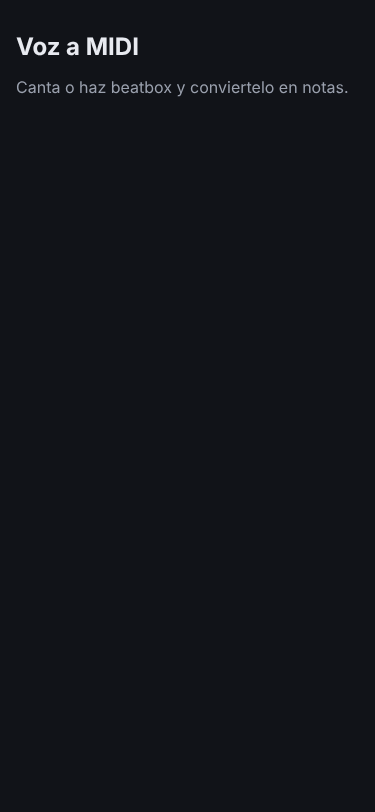
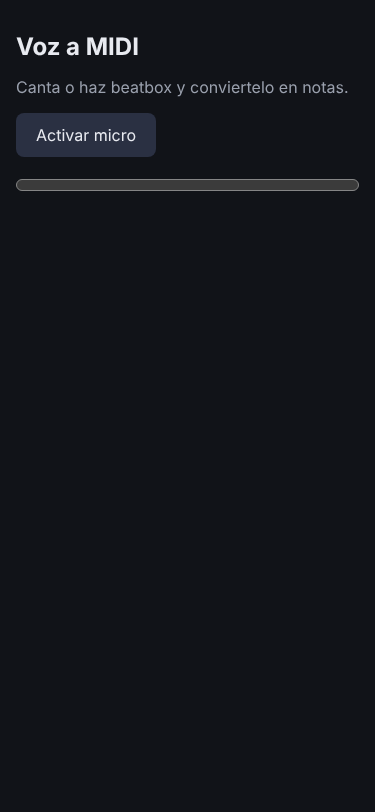
feat: pipeline de audio con AudioWorklet, buffer circular y medidor de nivel
Claude-Session: https://claude.ai/code/session_015rvETS9hLcjRjsWEGC3ZxA

Changed region(s): [[0.0293, 0.1232, 0.968, 0.2463]]

diff --git a/test/ring-buffer.test.ts b/test/ring-buffer.test.ts
@@ -1,0 +1,55 @@
+import { describe, expect, it } from 'vitest';
+import { RingBuffer } from '../src/audio/ring-buffer';
+import { measureLevel, toDb } from '../src/audio/level';
+
+describe('RingBuffer', () => {
+  it('devuelve las ultimas muestras en orden', () => {
+    const rb = new RingBuffer(4);
+    rb.write(Float32Array.from([1, 2, 3]));
+    const out = new Float32Array(2);
+    expect(rb.readLatest(out)).toBe(2);
+    expect(Array.from(out)).toEqual([2, 3]);
+  });
+
+  it('da la vuelta al llegar al final', () => {
+    const rb = new RingBuffer(4);
+    rb.write(Float32Array.from([1, 2, 3]));
+    rb.write(Float32Array.from([4, 5, 6]));
+    const out = new Float32Array(4);
+    expect(rb.readLatest(out)).toBe(4);
+    expect(Array.from(out)).toEqual([3, 4, 5, 6]);
+    expect(rb.length).toBe(4);
+  });
+
+  it('con escritura mayor que la capacidad conserva el final', () => {
+    const rb = new RingBuffer(3);
+    rb.write(Float32Array.from([1, 2, 3, 4, 5]));
+    const out = new Float32Array(3);
+    rb.readLatest(out);
+    expect(Array.from(out)).toEqual([3, 4, 5]);
+  });
+
+  it('lee solo lo disponible', () => {
+    const rb = new RingBuffer(8);
+    rb.write(Float32Array.from([7]));
+    expect(rb.readLatest(new Float32Array(5))).toBe(1);
+  });
+
+  it('rechaza capacidad invalida', () => {
+    expect(() => new RingBuffer(0)).toThrow(RangeError);
+  });
+});
+
+describe('nivel', () => {
+  it('un seno de amplitud 0.5 tiene rms ~0.354 y pico 0.5', () => {
+    const s = new Float32Array(4800).map((_, i) => 0.5 * Math.sin((2 * Math.PI * 100 * i) / 48000));
+    const { rms, peak } = measureLevel(s);
+    expect(rms).toBeCloseTo(0.5 / Math.SQRT2, 3);
+    expect(peak).toBeCloseTo(0.5, 3);
+  });
+
+  it('dB: 1 es 0 dBFS y el silencio queda en -100', () => {
+    expect(toDb(1)).toBeCloseTo(0);
+    expect(toDb(0)).toBe(-100);
+  });
+});

diff --git a/src/main.ts b/src/main.ts
@@ -1,4 +1,6 @@
 import './style.css';
+import { toDb } from './audio/level';
+import type { Engine } from './audio/engine';
 
 const app = document.querySelector<HTMLDivElement>('#app');
 if (app) {
@@ -6,8 +8,41 @@ if (app) {
     <main>
       <h1>Voz a MIDI</h1>
       <p>Canta o haz beatbox y conviertelo en notas.</p>
+      <button id="mic" type="button">Activar micro</button>
+      <meter id="nivel" min="-100" max="0" value="-100" aria-label="Nivel de entrada"></meter>
+      <p id="estado" role="status"></p>
     </main>
   `;
+  const button = app.querySelector<HTMLButtonElement>('#mic');
+  const meter = app.querySelector<HTMLMeterElement>('#nivel');
+  const status = app.querySelector<HTMLParagraphElement>('#estado');
+  let engine: Engine | null = null;
+
+  button?.addEventListener('click', async () => {
+    if (!button || !meter || !status) return;
+    button.disabled = true;
+    try {
+      if (engine) {
+        await engine.stop();
+        engine = null;
+        meter.value = -100;
+        button.textContent = 'Activar micro';
+        status.textContent = '';
+      } else {
+        const { startEngine } = await import('./audio/engine');
+        engine = await startEngine(({ rms }) => {
+          meter.value = toDb(rms);
+          status.dataset['activo'] = '1';
+        });
+        button.textContent = 'Detener';
+        status.textContent = 'Micro activo';
+      }
+    } catch {
+      status.textContent = 'No se pudo abrir el micro';
+    } finally {
+      button.disabled = false;
+    }
+  });
 }
 
 if (import.meta.env.PROD) {

diff --git a/src/audio/ring-buffer.ts b/src/audio/ring-buffer.ts
@@ -1,0 +1,35 @@
+/** Buffer circular de muestras mono. Sin asignaciones tras la construccion (apto para el worklet). */
+export class RingBuffer {
+  private readonly data: Float32Array;
+  private writePos = 0;
+  private filled = 0;
+
+  constructor(readonly capacity: number) {
+    if (!Number.isInteger(capacity) || capacity <= 0) throw new RangeError('capacity debe ser entero positivo');
+    this.data = new Float32Array(capacity);
+  }
+
+  /** Muestras validas almacenadas (como maximo `capacity`). */
+  get length(): number {
+    return this.filled;
+  }
+
+  write(samples: Float32Array): void {
+    const src = samples.length > this.capacity ? samples.subarray(samples.length - this.capacity) : samples;
+    const first = Math.min(src.length, this.capacity - this.writePos);
+    this.data.set(src.subarray(0, first), this.writePos);
+    this.data.set(src.subarray(first), 0);
+    this.writePos = (this.writePos + src.length) % this.capacity;
+    this.filled = Math.min(this.capacity, this.filled + src.length);
+  }
+
+  /** Copia las ultimas `out.length` muestras (la mas reciente al final). Devuelve cuantas copio. */
+  readLatest(out: Float32Array): number {
+    const n = Math.min(out.length, this.filled);
+    const start = (this.writePos - n + this.capacity) % this.capacity;
+    const first = Math.min(n, this.capacity - start);
+    out.set(this.data.subarray(start, start + first), 0);
+    out.set(this.data.subarray(0, n - first), first);
+    return n;
+  }
+}

diff --git a/src/audio/engine.ts b/src/audio/engine.ts
@@ -1,0 +1,32 @@
+import workletUrl from './capture-processor.ts?worker&url';
+import type { Level } from './level';
+
+export interface Engine {
+  stop(): Promise<void>;
+}
+
+/** Abre el micro y conecta el worklet de captura. Debe llamarse desde un gesto del usuario. */
+export async function startEngine(onLevel: (level: Level) => void): Promise<Engine> {
+  const stream = await navigator.mediaDevices.getUserMedia({ audio: true });
+  const ctx = new AudioContext({ latencyHint: 'interactive' });
+  try {
+    await ctx.resume();
+    await ctx.audioWorklet.addModule(workletUrl);
+    const source = ctx.createMediaStreamSource(stream);
+    const node = new AudioWorkletNode(ctx, 'capture-processor', { numberOfOutputs: 0 });
+    node.port.onmessage = (e: MessageEvent<Level>) => onLevel(e.data);
+    source.connect(node);
+    return {
+      async stop() {
+        node.port.onmessage = null;
+        source.disconnect();
+        stream.getTracks().forEach((t) => t.stop());
+        await ctx.close();
+      },
+    };
+  } catch (err) {
+    stream.getTracks().forEach((t) => t.stop());
+    await ctx.close();
+    throw err;
+  }
+}

diff --git a/src/audio/capture-processor.ts b/src/audio/capture-processor.ts
@@ -1,0 +1,34 @@
+import { RingBuffer } from './ring-buffer';
+import { measureLevel } from './level';
+
+declare class AudioWorkletProcessor {
+  readonly port: MessagePort;
+  constructor();
+}
+declare function registerProcessor(name: string, ctor: new () => AudioWorkletProcessor): void;
+declare const sampleRate: number;
+
+const WINDOW = 1024;
+const REPORT_HZ = 30;
+
+class CaptureProcessor extends AudioWorkletProcessor {
+  private readonly ring = new RingBuffer(sampleRate * 2);
+  private readonly window = new Float32Array(WINDOW);
+  private sinceReport = 0;
+
+  process(inputs: Float32Array[][]): boolean {
+    const channel = inputs[0]?.[0];
+    if (!channel) return true;
+    this.ring.write(channel);
+    this.sinceReport += channel.length;
+    if (this.sinceReport >= sampleRate / REPORT_HZ) {
+      this.sinceReport = 0;
+      const n = this.ring.readLatest(this.window);
+      const { rms, peak } = measureLevel(this.window.subarray(WINDOW - n));
+      this.port.postMessage({ rms, peak });
+    }
+    return true;
+  }
+}
+
+registerProcessor('capture-processor', CaptureProcessor);

diff --git a/e2e/audio.spec.ts b/e2e/audio.spec.ts
@@ -1,0 +1,20 @@
+import { expect, test } from '@playwright/test';
+
+test.use({
+  permissions: ['microphone'],
+  launchOptions: {
+    ...(process.env['CHROMIUM_PATH'] ? { executablePath: process.env['CHROMIUM_PATH'] } : {}),
+    args: ['--use-fake-ui-for-media-stream', '--use-fake-device-for-media-stream', '--autoplay-policy=no-user-gesture-required'],
+  },
+});
+
+test('activar el micro arranca el worklet y mueve el medidor', async ({ page }) => {
+  await page.goto('/');
+  await page.getByRole('button', { name: 'Activar micro' }).click();
+  await expect(page.getByRole('status')).toHaveText('Micro activo');
+  await expect(page.locator('#estado[data-activo="1"]')).toBeAttached();
+  await expect.poll(async () => page.locator('#nivel').evaluate((m: HTMLMeterElement) => m.value)).toBeGreaterThan(-100);
+  const overflow = await page.evaluate(() => document.documentElement.scrollWidth > window.innerWidth);
+  expect(overflow).toBe(false);
+  await page.screenshot({ path: 'artifacts/audio.png', fullPage: true });
+});

diff --git a/src/audio/level.ts b/src/audio/level.ts
@@ -1,0 +1,21 @@
+export interface Level {
+  rms: number;
+  peak: number;
+}
+
+export function measureLevel(samples: Float32Array): Level {
+  let sum = 0;
+  let peak = 0;
+  for (let i = 0; i < samples.length; i++) {
+    const v = samples[i] ?? 0;
+    sum += v * v;
+    const a = Math.abs(v);
+    if (a > peak) peak = a;
+  }
+  return { rms: samples.length ? Math.sqrt(sum / samples.length) : 0, peak };
+}
+
+/** Nivel en dBFS, con suelo en -100 para silencio. */
+export function toDb(linear: number): number {
+  return linear > 1e-5 ? 20 * Math.log10(linear) : -100;
+}

diff --git a/src/style.css b/src/style.css
@@ -30,3 +30,21 @@ h1 {
 p {
   color: var(--muted);
 }
+
+button {
+  min-height: 44px;
+  min-width: 44px;
+  padding: 0 20px;
+  font: inherit;
+  color: var(--fg);
+  background: #2a3042;
+  border: 0;
+  border-radius: 8px;
+}
+
+meter {
+  display: block;
+  width: 100%;
+  height: 24px;
+  margin-top: 16px;
+}

diff --git a/docs/TASKS.md b/docs/TASKS.md
@@ -6,7 +6,7 @@ Regla: el agente coge la primera `[ ]` de la fase activa mas baja. Puede anadir 
 ## Fase 0. Base
 - [x] Scaffold Vite + TS estricto, ESLint, Vitest, Playwright (viewport 375x812), scripts del CLAUDE.md
 - [x] PWA: manifest, service worker, iconos propios
-- [ ] Pipeline de audio: getUserMedia + AudioWorklet con buffer circular, medidor de nivel en UI
+- [x] Pipeline de audio: getUserMedia + AudioWorklet con buffer circular, medidor de nivel en UI
 - [ ] Desbloqueo de AudioContext por gesto (requisito iOS) y pantalla de permisos de micro
 - [ ] Banco de pruebas: carpeta `test/fixtures` con audio sintetico generado por script (senos, barridos, ruido) para tests deterministas
 - [ ] Selector de dispositivo de entrada y restricciones de getUserMedia (sin AGC, sin supresion de ruido, sin cancelacion de eco)
